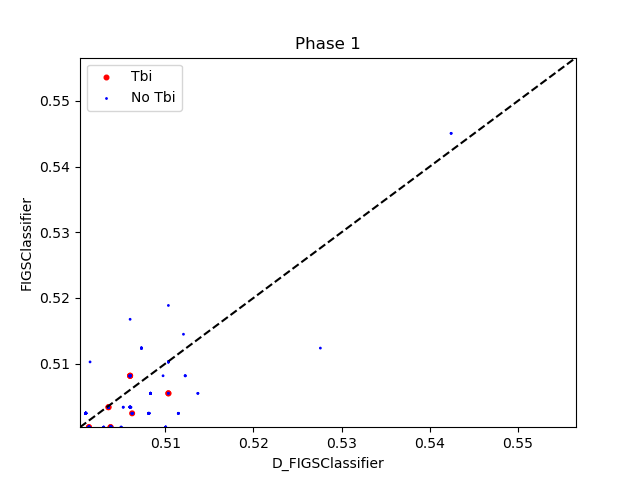
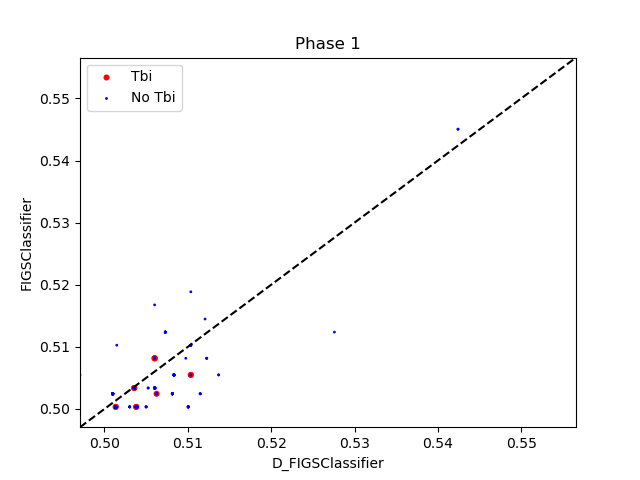
nice

diff --git a/rulevetting/projects/tbi_pecarn/dynamic_cdi.py b/rulevetting/projects/tbi_pecarn/dynamic_cdi.py
@@ -11,6 +11,7 @@ from imodels.tree.figs import FIGSClassifier
 from imodels import RuleFitClassifier, BayesianRuleListClassifier, GreedyRuleListClassifier
 from mlxtend.classifier import LogisticRegression
 from sklearn.ensemble import RandomForestClassifier, GradientBoostingClassifier
+from sklearn.metrics import roc_auc_score
 from sklearn.model_selection import train_test_split
 from sklearn.tree import DecisionTreeClassifier
 
@@ -29,7 +30,7 @@ def get_phases(columns):
 
     phase_1_features = time_distribution[0]
     phase_2_features = time_distribution[0] + time_distribution[2]
-    phase_3_features = time_distribution[0] + time_distribution[2] + time_distribution[3]
+    phase_3_features = time_distribution[0] + time_distribution[2] + time_distribution[3] + time_distribution[4]
     for feature in phase_1_features:
         # get all columns names that start with feature
         # set of new indices
@@ -226,6 +227,8 @@ def run_sim(n_seeds, max_rules=12):
     results = {"current": copy.deepcopy(results_template), "first": copy.deepcopy(results_template)}
     for seed in range(n_seeds):
         X_train, X_test, y_train, y_test = train_test_split(X, y, test_size=0.4, random_state=seed)
+        print(np.sum(y_test))
+
 
         d_figs = D_FIGSClassifier(phases=phases, max_rules=max_rules)
         d_figs.feature_names_ = features_names
@@ -365,29 +368,40 @@ def get_scores(compare, phases, method_per_phase, d_figs, X_test, y_test):
 
 def make_dfigs_tree_plots():
     X, y = get_tbi_data()
+    # split to train and test
+    X_train, X_test, y_train, y_test = train_test_split(X, y, test_size=0.6, random_state=42)
+
     phases = get_phases(X.columns)
     features_names = [f"{f}_phase_{_get_phase(i, phases)}" for i, f in enumerate(X.columns)]
 
     d_figs_true = D_FIGSClassifier(phases=phases, max_rules=2)
-    d_figs_true.fit(X.values, y.values)
+    d_figs_true.fit(X_train.values, y_train.values)
     d_figs_true.feature_names_ = features_names
+
+    # calculate auroc for d_figs_true
+    auroc = roc_auc_score(y_test, d_figs_true.predict_proba(X_test.values)[:, 1])
+    print(f"auROC for D_FIGSClassifier: {auroc}")
 
     d_figs_true.plot(filename="results/dynamic_figs/d_figs_true.png", label="none")
 
     d_figs_perturbed = D_FIGSClassifier(phases=phases, max_rules=2)
     # fit on permuted labels
-    d_figs_perturbed.fit(X.values, np.random.permutation(y))
+    d_figs_perturbed.fit(X_train.values, np.random.permutation(y))
     d_figs_perturbed.feature_names_ = features_names
     d_figs_perturbed.plot(filename="results/dynamic_figs/d_figs_permuted_labels.png", label="none")
-    # I want to swap the locations of 'SFxPalp_No_phase_3' and 'Drugs_1.0_phase_3' in feature names
-    i_1 = features_names.index('SFxPalp_No_phase_3')
+    # calculate auroc for d_figs_true
+    auroc = roc_auc_score(y_test, d_figs_perturbed.predict_proba(X_test.values)[:, 1])
+    print(f"auROC for D_FIGSClassifier: {auroc}")
+
+    # I want to swap the locations of 'AMS_1.0_phase_3' and 'Drugs_1.0_phase_3' in feature names
+    i_1 = features_names.index('AMS_1.0_phase_3')
     i_2 = features_names.index('Drugs_1.0_phase_3')
     features_names[i_1] = 'Drugs_1.0_phase_3'
-    features_names[i_2] = 'SFxPalp_No_phase_3'
-    # now do the same with 'HA_verb_91.0_phase_3' and 'SFxPalp_No_phase_3'
+    features_names[i_2] = 'AMS_1.0_phase_3'
+    # now do the same with 'HA_verb_91.0_phase_3' and 'SFxPalp_Yes_phase_3'
     i_1 = features_names.index('HA_verb_91.0_phase_3')
-    i_2 = features_names.index('SFxPalp_No_phase_3')
-    features_names[i_1] = 'SFxPalp_No_phase_3'
+    i_2 = features_names.index('SFxPalp_Yes_phase_3')
+    features_names[i_1] = 'SFxPalp_Yes_phase_3'
     features_names[i_2] = 'HA_verb_91.0_phase_3'
 
 
@@ -399,9 +413,10 @@ def make_dfigs_tree_plots():
 
 
 def main():
-    make_dfigs_tree_plots()
     # run_sim(20)
     # plot_performance_results()
+    make_dfigs_tree_plots()
+
     # # # (10)
 
 
